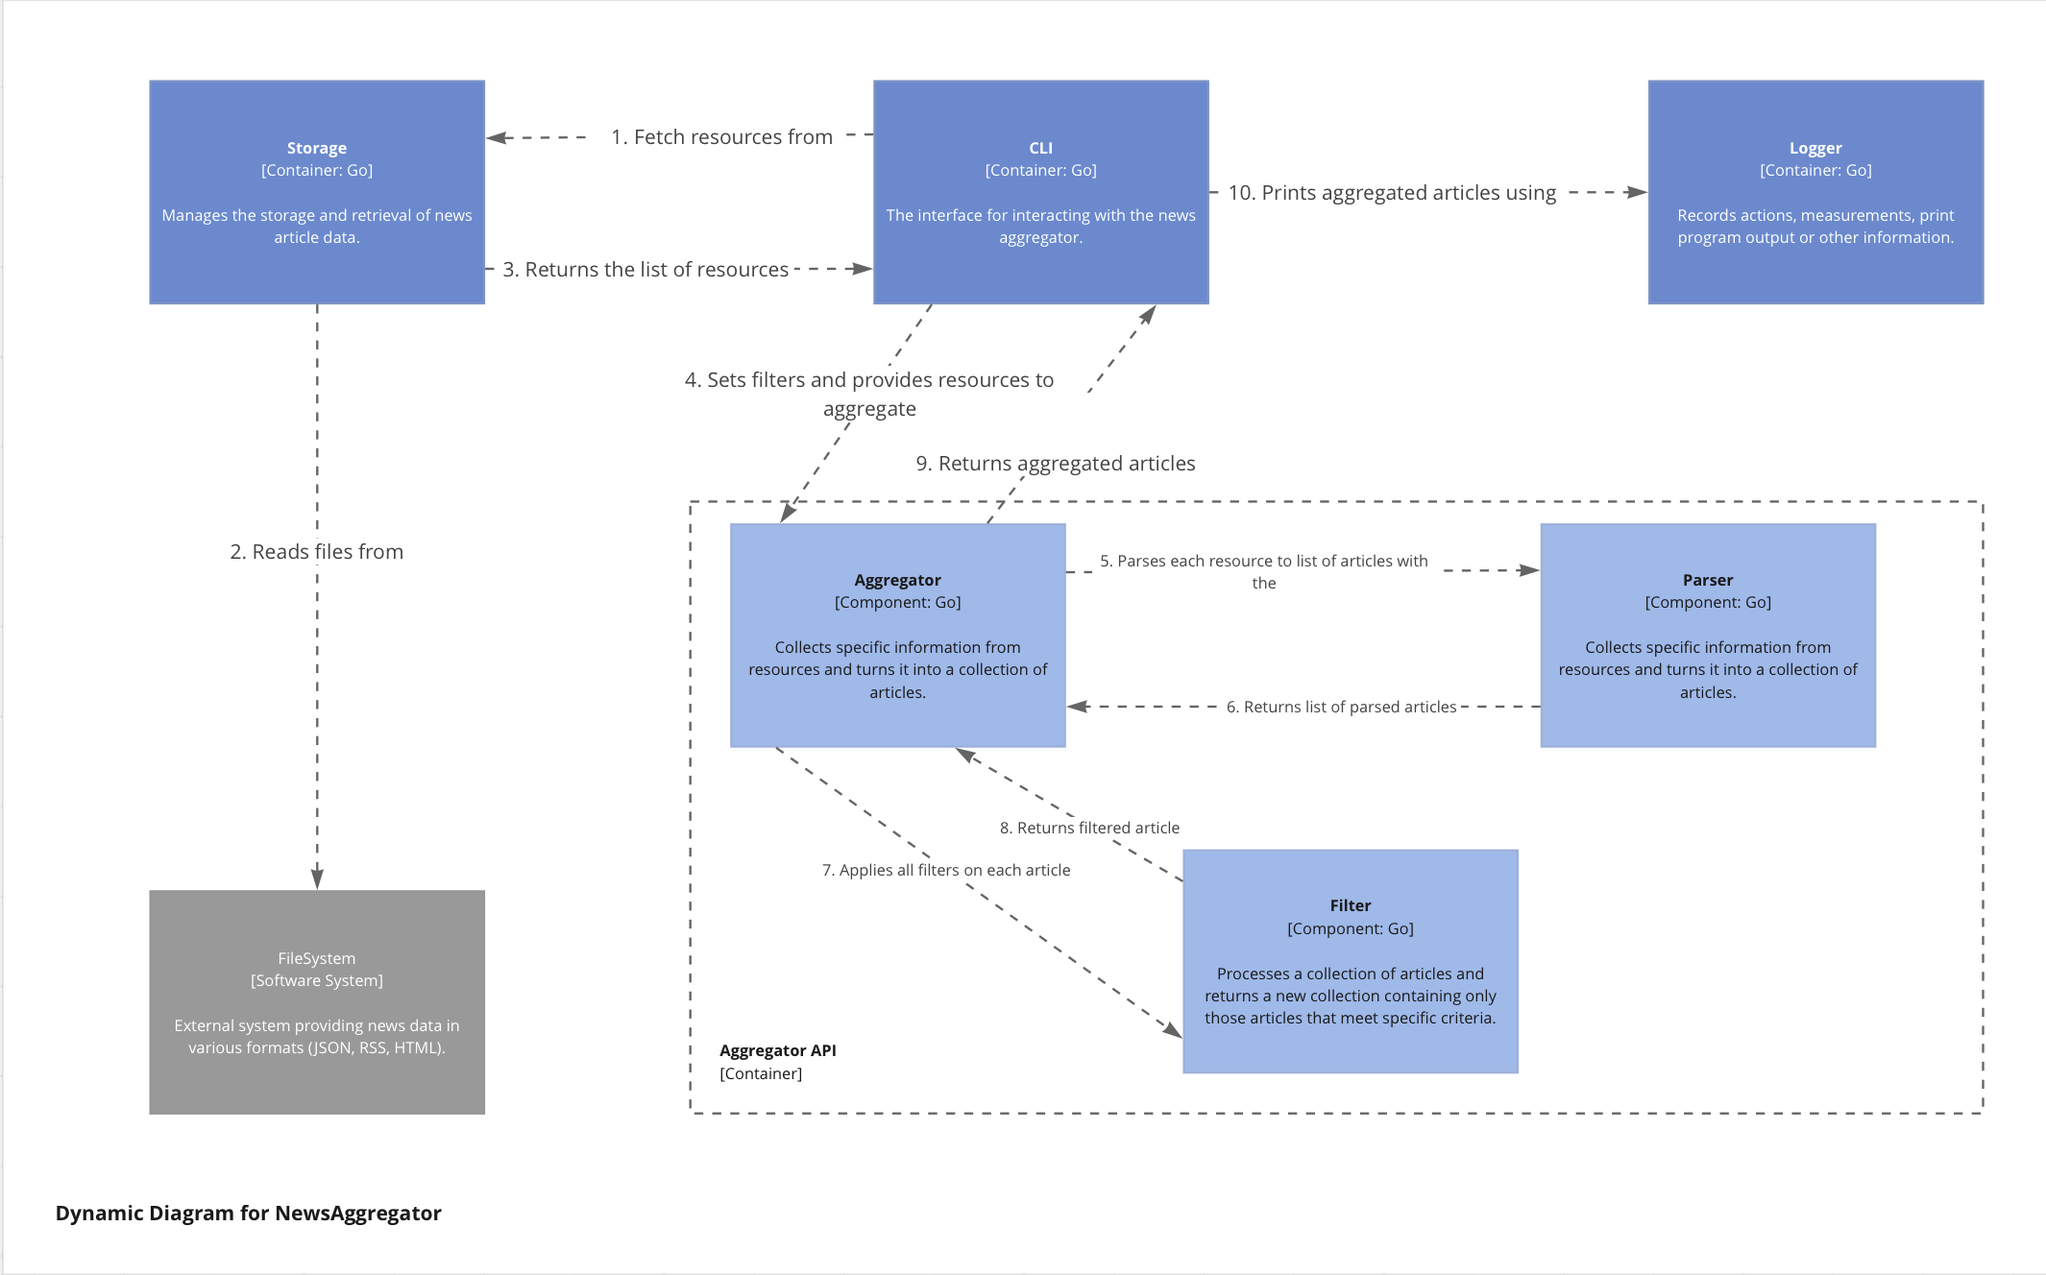
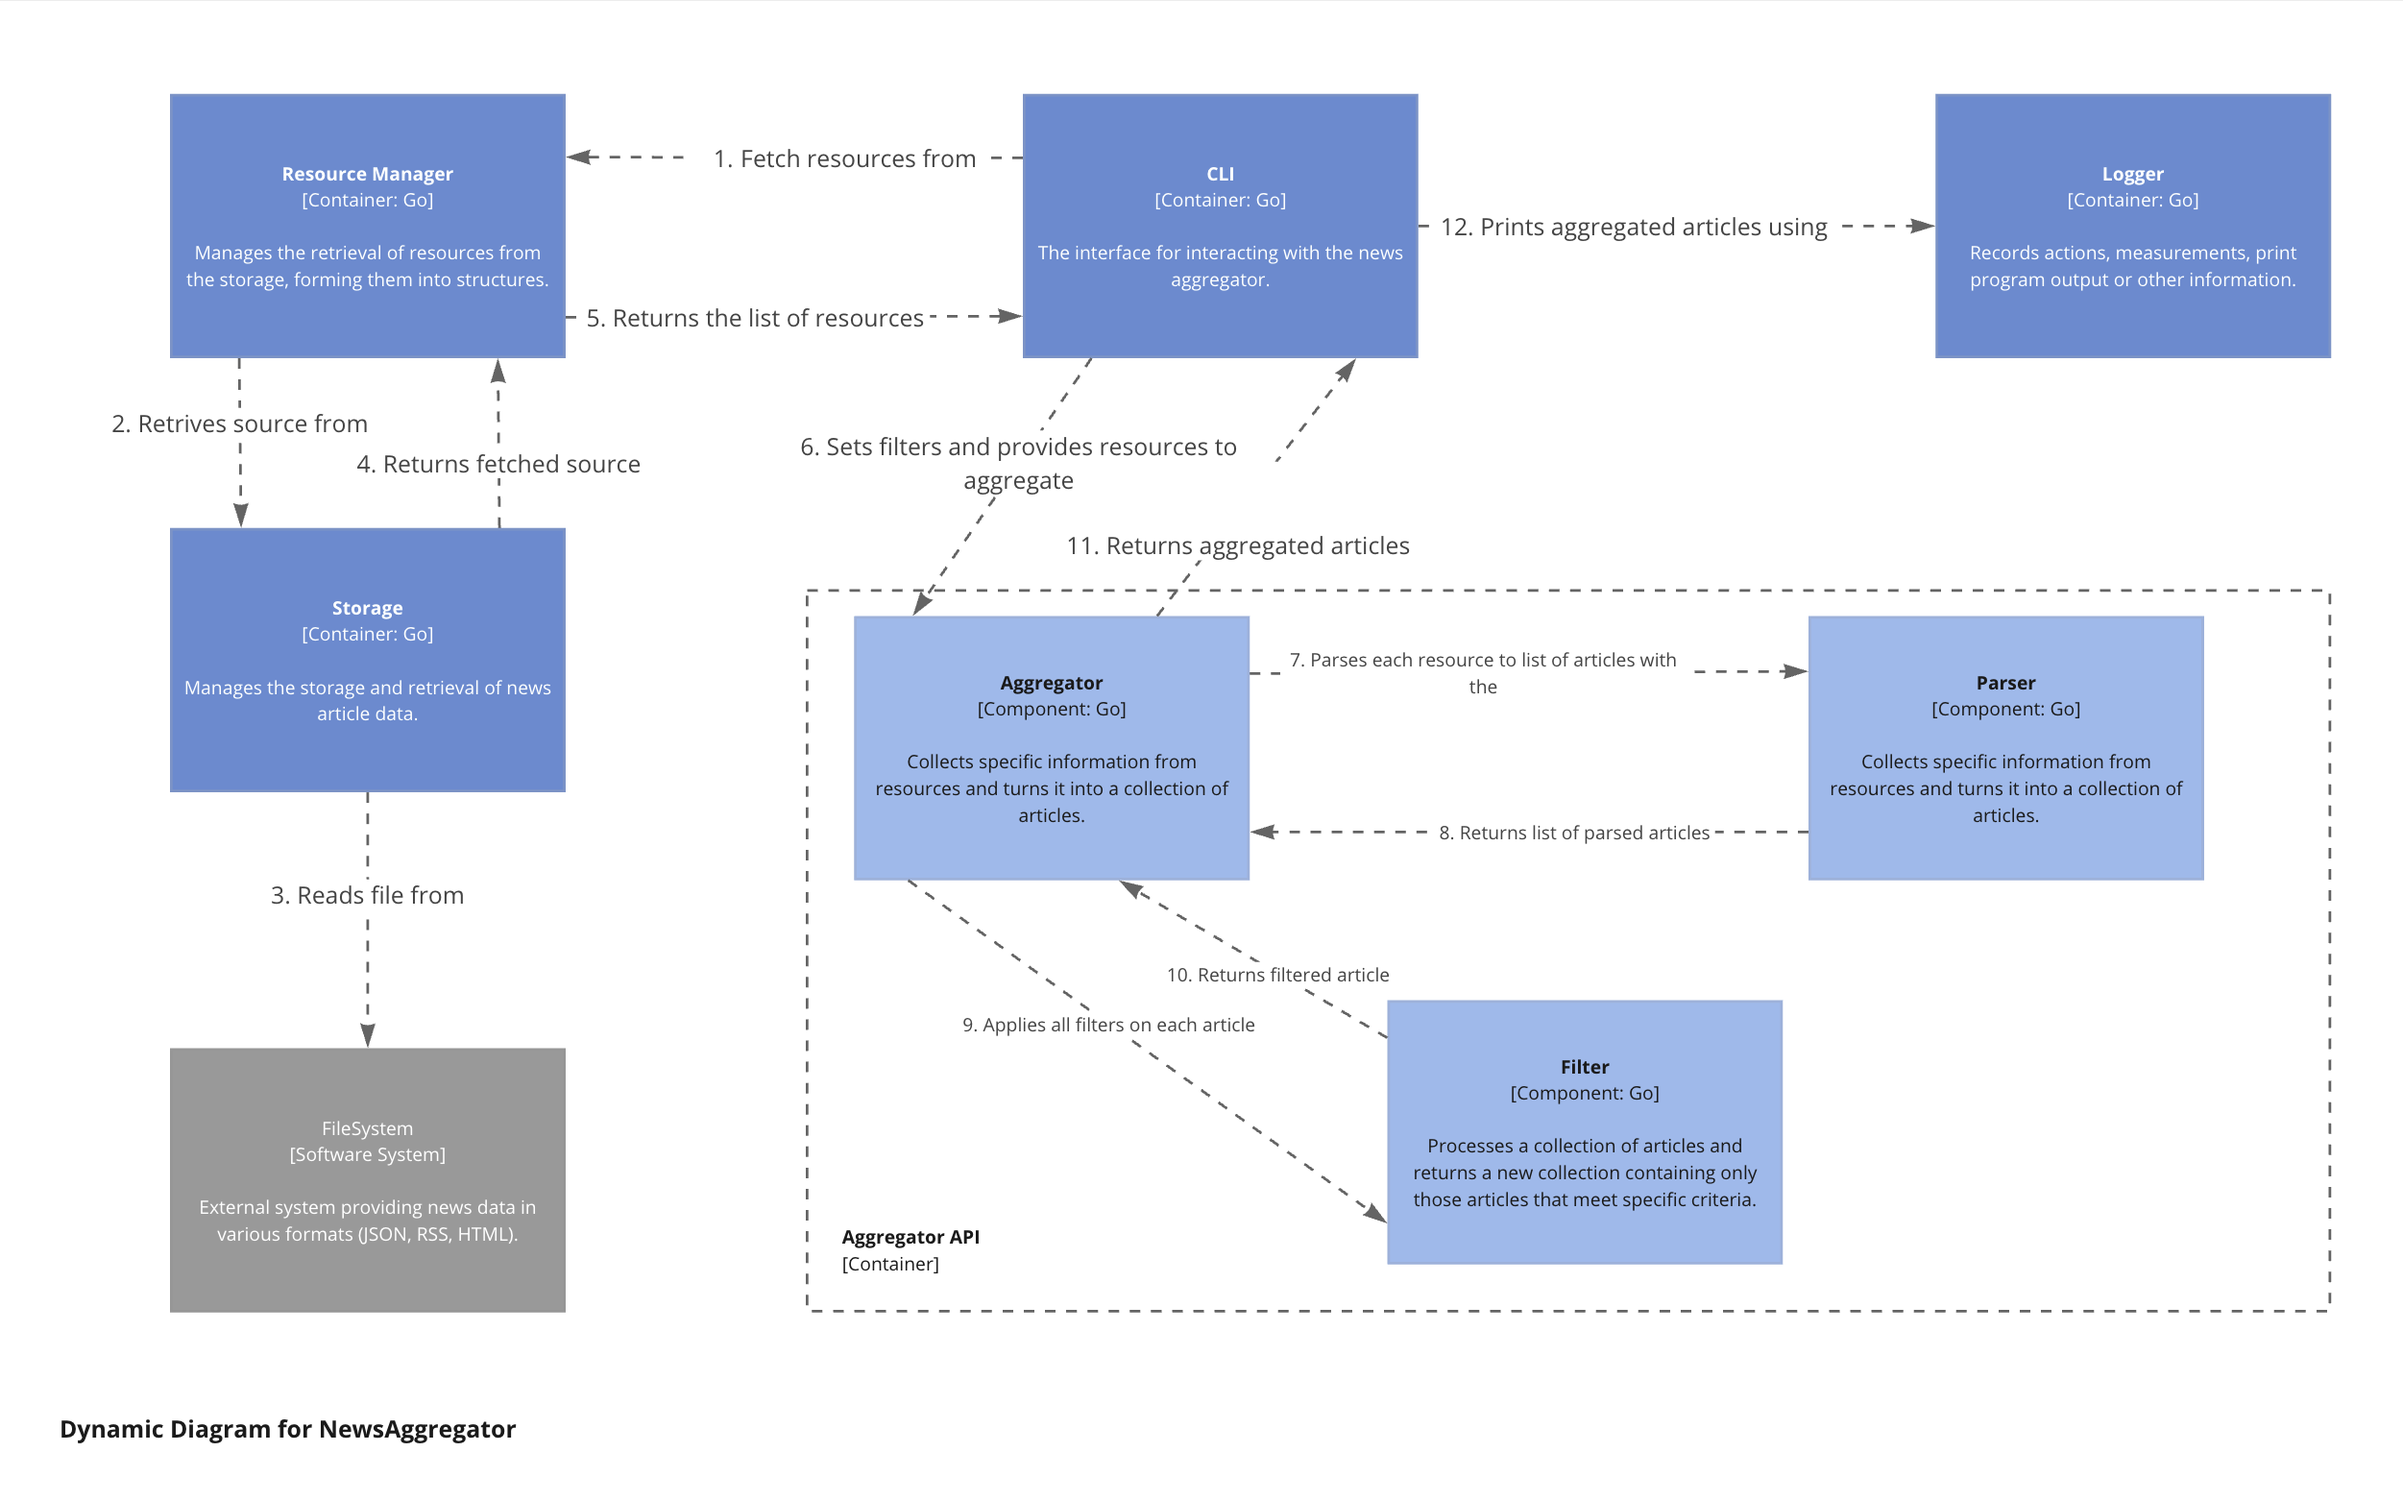
Update `specification.md` and `c4 model` diagrams.

diff --git a/resource_manager/manager.go b/resource_manager/manager.go
@@ -6,7 +6,8 @@ import (
 	"news-aggregator/storage"
 )
 
-// ResourceManager is responsible for creating resources according its format and its managing.
+// ResourceManager is a manager that responsible for retrieval of resources from the storage,
+// forming them into structures.
 type ResourceManager struct {
 	storage   *storage.Storage
 	resources map[resource.Source]resource.Format

diff --git a/doc/specification.md b/doc/specification.md
@@ -128,9 +128,7 @@ output is an instantiated parser object capable of parsing articles from the spe
 
 ## Storage:
 
-The Storage API is responsible for managing the storage and retrieval of news article data.
-The API also includes an error handling
-mechanism, which allows handling errors in a way that is convenient for the user.
+The Storage API is responsible for the retrieval and manipulation of known files from a file system.
 
 ### Methods
 
@@ -142,24 +140,34 @@ mechanism, which allows handling errors in a way that is convenient for the user
     * Returns:
        * Storage object.
 
-2. GetAvailableSources: Retrieves a list of available sources.
+2. ReadSource: Retrieves a source from a file.
 
+    * Args:
+        * sourceName (string): Name of the source to retrieve.
    * Returns:
-      * []string: A list of available sources.
-        * error: Error object in case of failure.
+       * resource.Resource: The source object.
+       * error: Error object in case of failure.
     * Errors:
-       * SourceLoadError: Error occurred while loading the sources.
+        * SourceNotFoundError: Source not found in the storage system.
     * Docs:
-       * Description: Retrieves a list of available sources from the storage system.
+        * Description: Retrieve a source from the storage system based on the provided source name.
 
    #### Usage:
 
     ```
-    sources, err := storage.GetAvailableSources()
-    fmt.Println("Available sources:", sources)
+    source := resource.Source("nbc-news")
+    res, err := storage.ReadSource(source)
     ```
 
-3. GetAllResources: Retrieves all resources from the storage system.
+## Resource manager:
+
+The Resource Manager API is responsible for creating resource.Resource structures from raw data and managing them in the
+storage system. Uses the Storage API to retrieve resources from the storage system. Helps user to interact with the
+storage API and forms the resource.Resource based on the provided and fetched data.
+
+### Methods
+
+1. AllResources: Retrieves all available and known resources from the storage system.
 
    * Returns:
       * []resource.Resource: Slice of Resource objects.
@@ -170,13 +178,13 @@ mechanism, which allows handling errors in a way that is convenient for the user
    #### Usage:
 
     ```
-    resources, err := storage.GetAllResources()
+    resources, err := resource_manager.AllResources()
     if err != nil {
         log.Fatalf("Error fetching all resources: %v", err)
     }
     ```
 
-4. GetSelectedResources: Retrieves selected resources from the storage system.
+2. GetSelectedResources: Retrieves selected resources from the storage system.
 
    * Args:
       * sources []string: List of sources to retrieve.
@@ -190,9 +198,26 @@ mechanism, which allows handling errors in a way that is convenient for the user
 
     ```
     sources := []string{"nbc-news", "abc-news"}
-    selectedResources, err := storage.GetSelectedResources(sources)
+    selectedResources, err := resource_manager.GetSelectedResources(sources)
     if err != nil {
         log.Fatalf("Error fetching selected resources: %v", err)
+    }
+    ```
+
+3. AvailableSources: Retrieves the list of known and available sources in the storage system.
+
+    * Returns:
+        * []string: List of available sources.
+        * error: Error object in case of failure.
+    * Docs:
+        * Description: Retrieves the list of available sources from the storage system.
+
+   #### Usage:
+
+    ```
+    sources, err := resource_manager.AvailableSources()
+    if err != nil {
+        log.Fatalf("Error fetching available sources: %v", err)
     }
     ```
 
